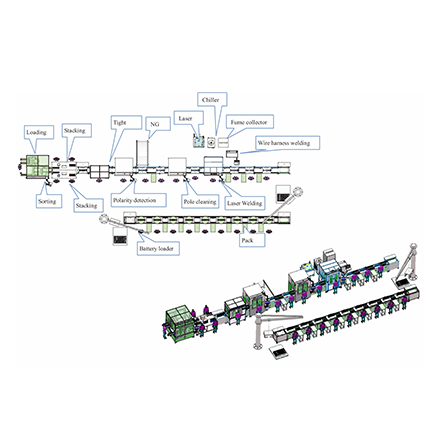
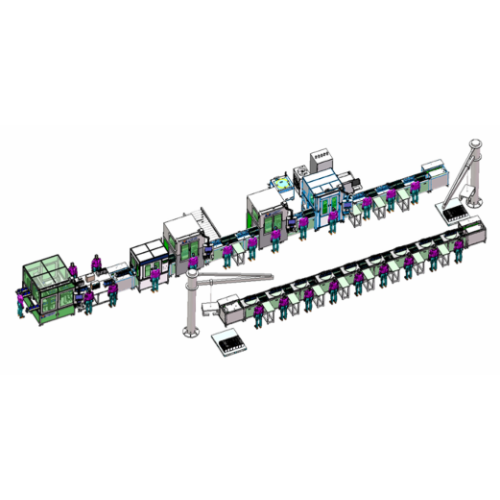
c

Changed region(s): [[0.0295, 0.2068, 0.975, 0.8273]]

diff --git a/semi-auto-prismatic-lines.html b/semi-auto-prismatic-lines.html
@@ -344,15 +344,27 @@
 <div class="container py-5">
 <div class="product col-lg-12">
     <div class="product-image col-lg-4">
-        <img src="img/prismatic-semi-auto.png" alt="Semi Auto Lines in India" title="Semi Auto Lines in India" class="w-100">
+        <img src="img/semi-2.png" alt="Semi Auto Lines in India" title="Semi Auto Lines in India" class="w-100">
     </div>
     <div class="product-description col-lg-8">
-        <h2><strong>Semi Auto Lines</strong></h2>
-        <p>Lorem ipsum, dolor sit amet consectetur adipisicing elit. Hic qui quae debitis amet et. Illum dolorem voluptas quae, excepturi dolorum ipsa ratione impedit culpa, soluta iure reiciendis tenetur eius accusantium, deleniti possimus sit sequi atque officia. Asperiores veniam voluptas quia modi deleniti eligendi culpa amet accusantium impedit, perferendis labore rerum fugit, ab eius commodi laudantium omnis atque quisquam alias. Repellendus nam similique tempore ut necessitatibus placeat doloremque ullam nesciunt asperiores adipisci officiis illo unde impedit itaque ipsam tenetur rem nostrum, accusamus rerum dolorum enim eveniet. Tempore facere ex perspiciatis magnam error doloribus libero nulla, pariatur corporis minus nobis, accusantium deleniti?</p>
+        <h2><strong>Semi Auto Lines</strong></h2> <br>
+       <p>Indygreen Technology offers advanced Semi-Automatic Lines for Prismatic Battery Pack Solutions, engineered to provide the perfect balance between automation efficiency, precision control, and operational flexibility. These lines are thoughtfully designed to meet the evolving needs of modern lithium battery manufacturing, offering a seamless blend of technology and human oversight.</p> <br>
+       <p>Our semi-automatic systems integrate high-precision equipment for cell testing, laser welding, module assembly, and BMS integration—ensuring every battery pack is produced with superior quality, consistency, and reliability. By minimizing manual intervention, these lines help reduce human error while maintaining the adaptability required for customized production demands.</p>
     </div>
 </div>
 </div>
-
+<div class="container py-5">
+<div class="product col-lg-12">
+    <div class="product-description col-lg-7 pr-4">
+        <h2><strong>Layout</strong></h2> <br>
+       <p>The layout consists of two main lines — the Module Line and the Pack Line — as shown in the layout. The Module Line has a total length of 24,220 mm, while the Pack Line extends to 27,816 mm, ensuring smooth and continuous manufacturing flow. A transfer crane is strategically placed between these two lines to efficiently transfer battery packs from the module section to the pack section.</p> <br>
+       <p>The line incorporates a Module Section (1200 × 800 mm) and a Pack Section (1900 × 1000 mm), designed for optimal space utilization and seamless integration. By combining advanced automation with skilled human operation, this setup ensures consistent quality, reduced cycle time, and enhanced productivity</p>
+    </div>
+     <div class="products-image col-lg-5">
+        <img src="img/semi-layout.png" alt="Layout" title="Layout" class="w-100">
+    </div>
+</div>
+</div>
   <!-- Footer -->
 <footer class="py-4">
 <div class="container">

diff --git a/style.css b/style.css
@@ -642,9 +642,34 @@ color.orange{color: #ff8042;}
         height: auto;
         display: block;
     }
+    .products-image 
+    {
+        border-radius: 10px;
+        overflow: hidden;
+        transition: transform 0.3s ease;
+    }
+    .products-image:hover 
+    {
+        transform: scale(1.05);
+    }
+    .products-image img 
+    {
+        width: 100%;
+        height: auto;
+        display: block;
+    }
     .product-description
     {
         margin-left: 15px;
+    }
+    .product-description h2
+    {
+        font-size: 30px;
+        border-radius: 10px 0 0 10px;
+        border-bottom:3px solid #ff8042;
+        border-left:3px solid #ff8042;
+        width: fit-content;
+        padding-left: 10px;
     }
 }
 @media  (min-width:769px) and (max-width:1440px)
@@ -765,6 +790,22 @@ color.orange{color: #ff8042;}
         height: auto;
         display: block;
     }
+    .products-image 
+    {
+        overflow: hidden;
+
+        transition: transform 0.3s ease;
+    }
+    .products-image:hover 
+    {
+        transform: scale(1.05);
+    }
+    .products-image img 
+    {
+        width: 100%;
+        height: auto;
+        display: block;
+    }
     .product-description
     {
         margin-left: 0;
@@ -774,6 +815,8 @@ color.orange{color: #ff8042;}
     .product-description h2
     {
         font-size: 24px;
+        border-radius: 10px;
+        border-left:2px solid #ff8042;
     }
 
  .product-card {
